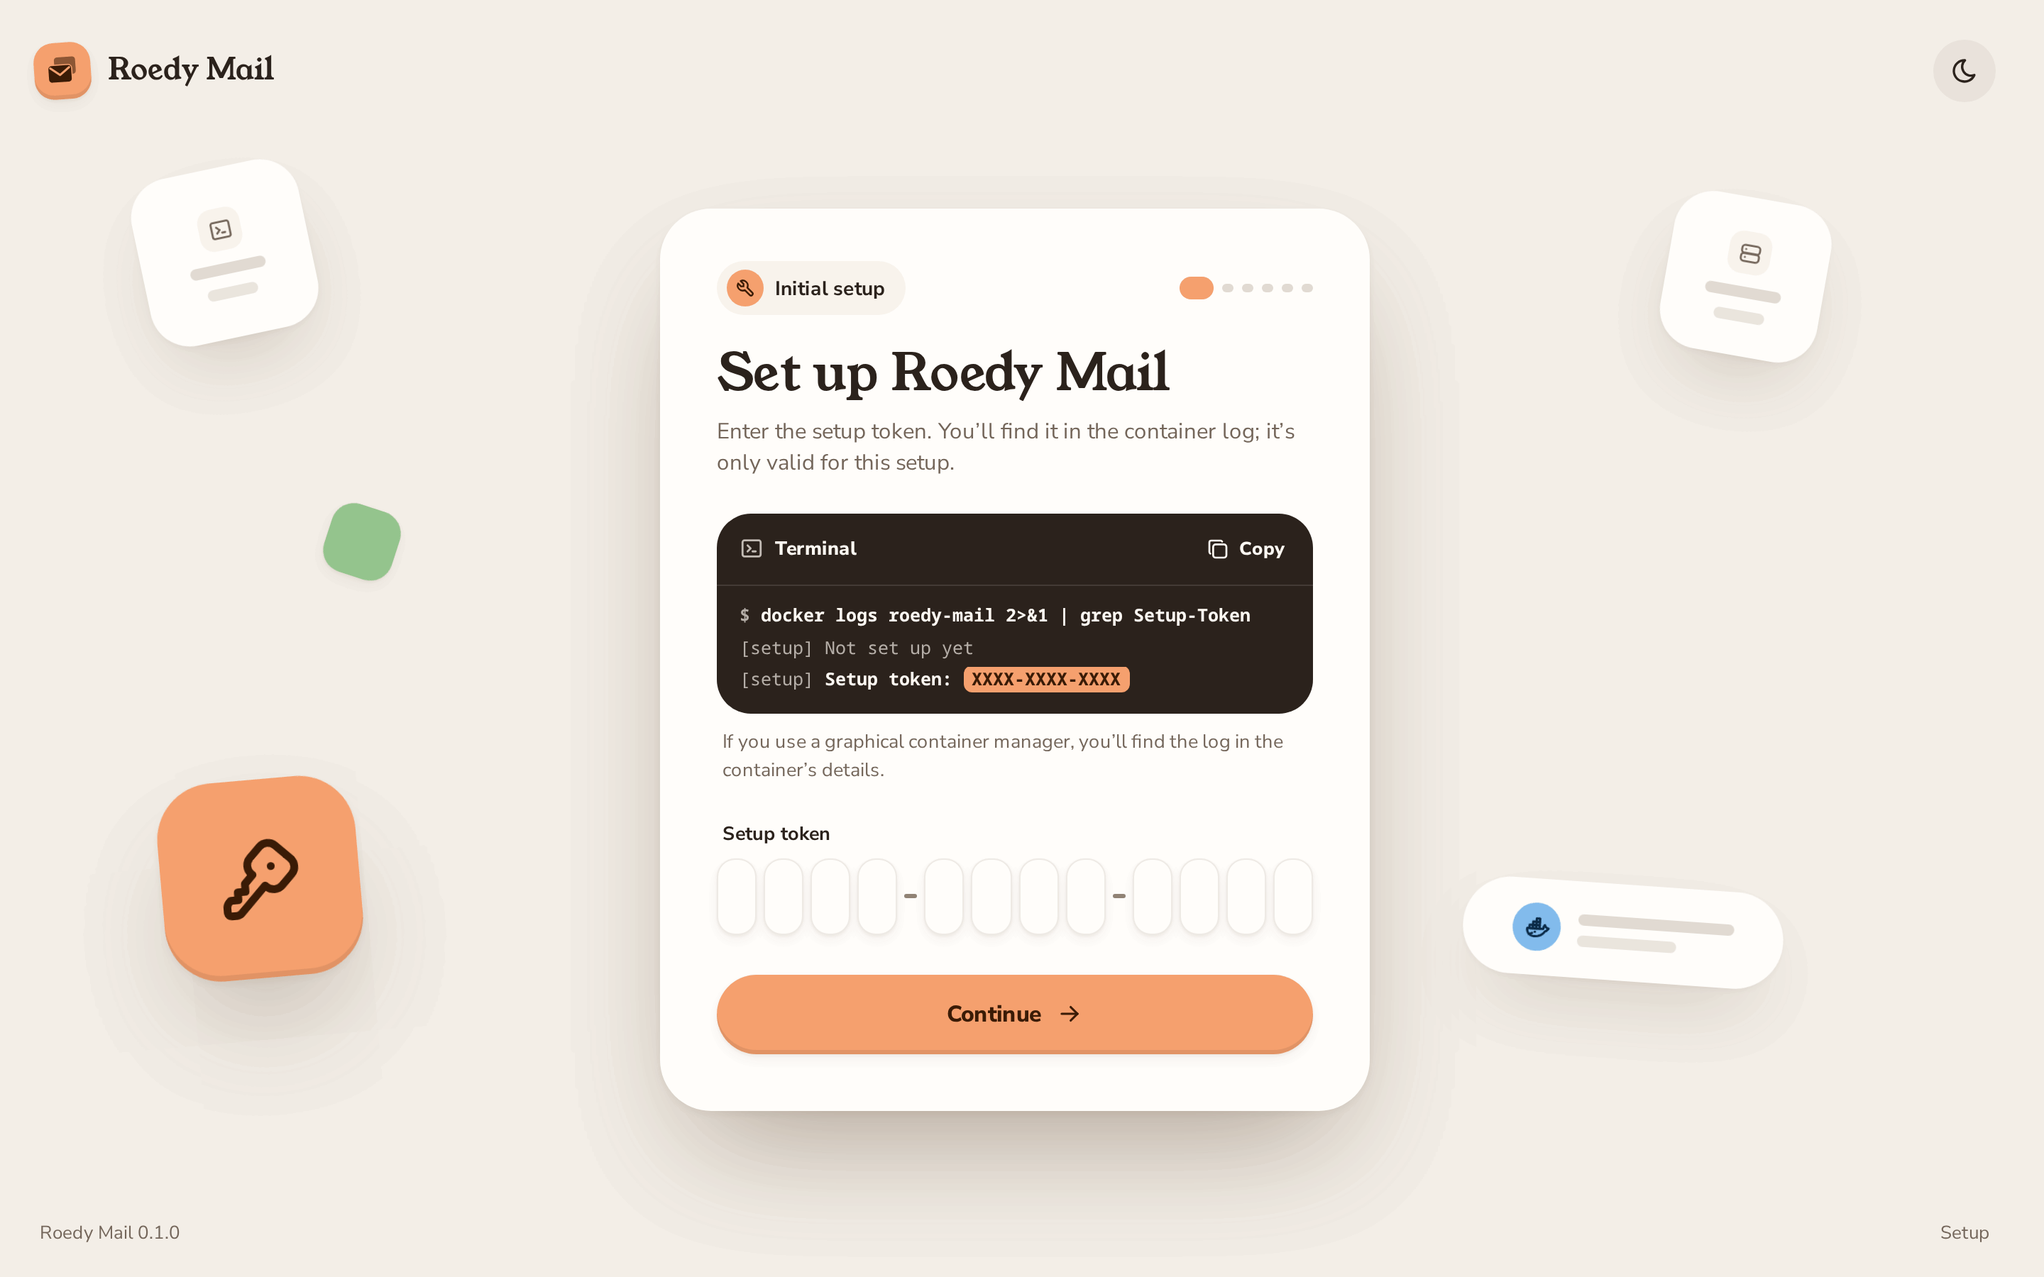
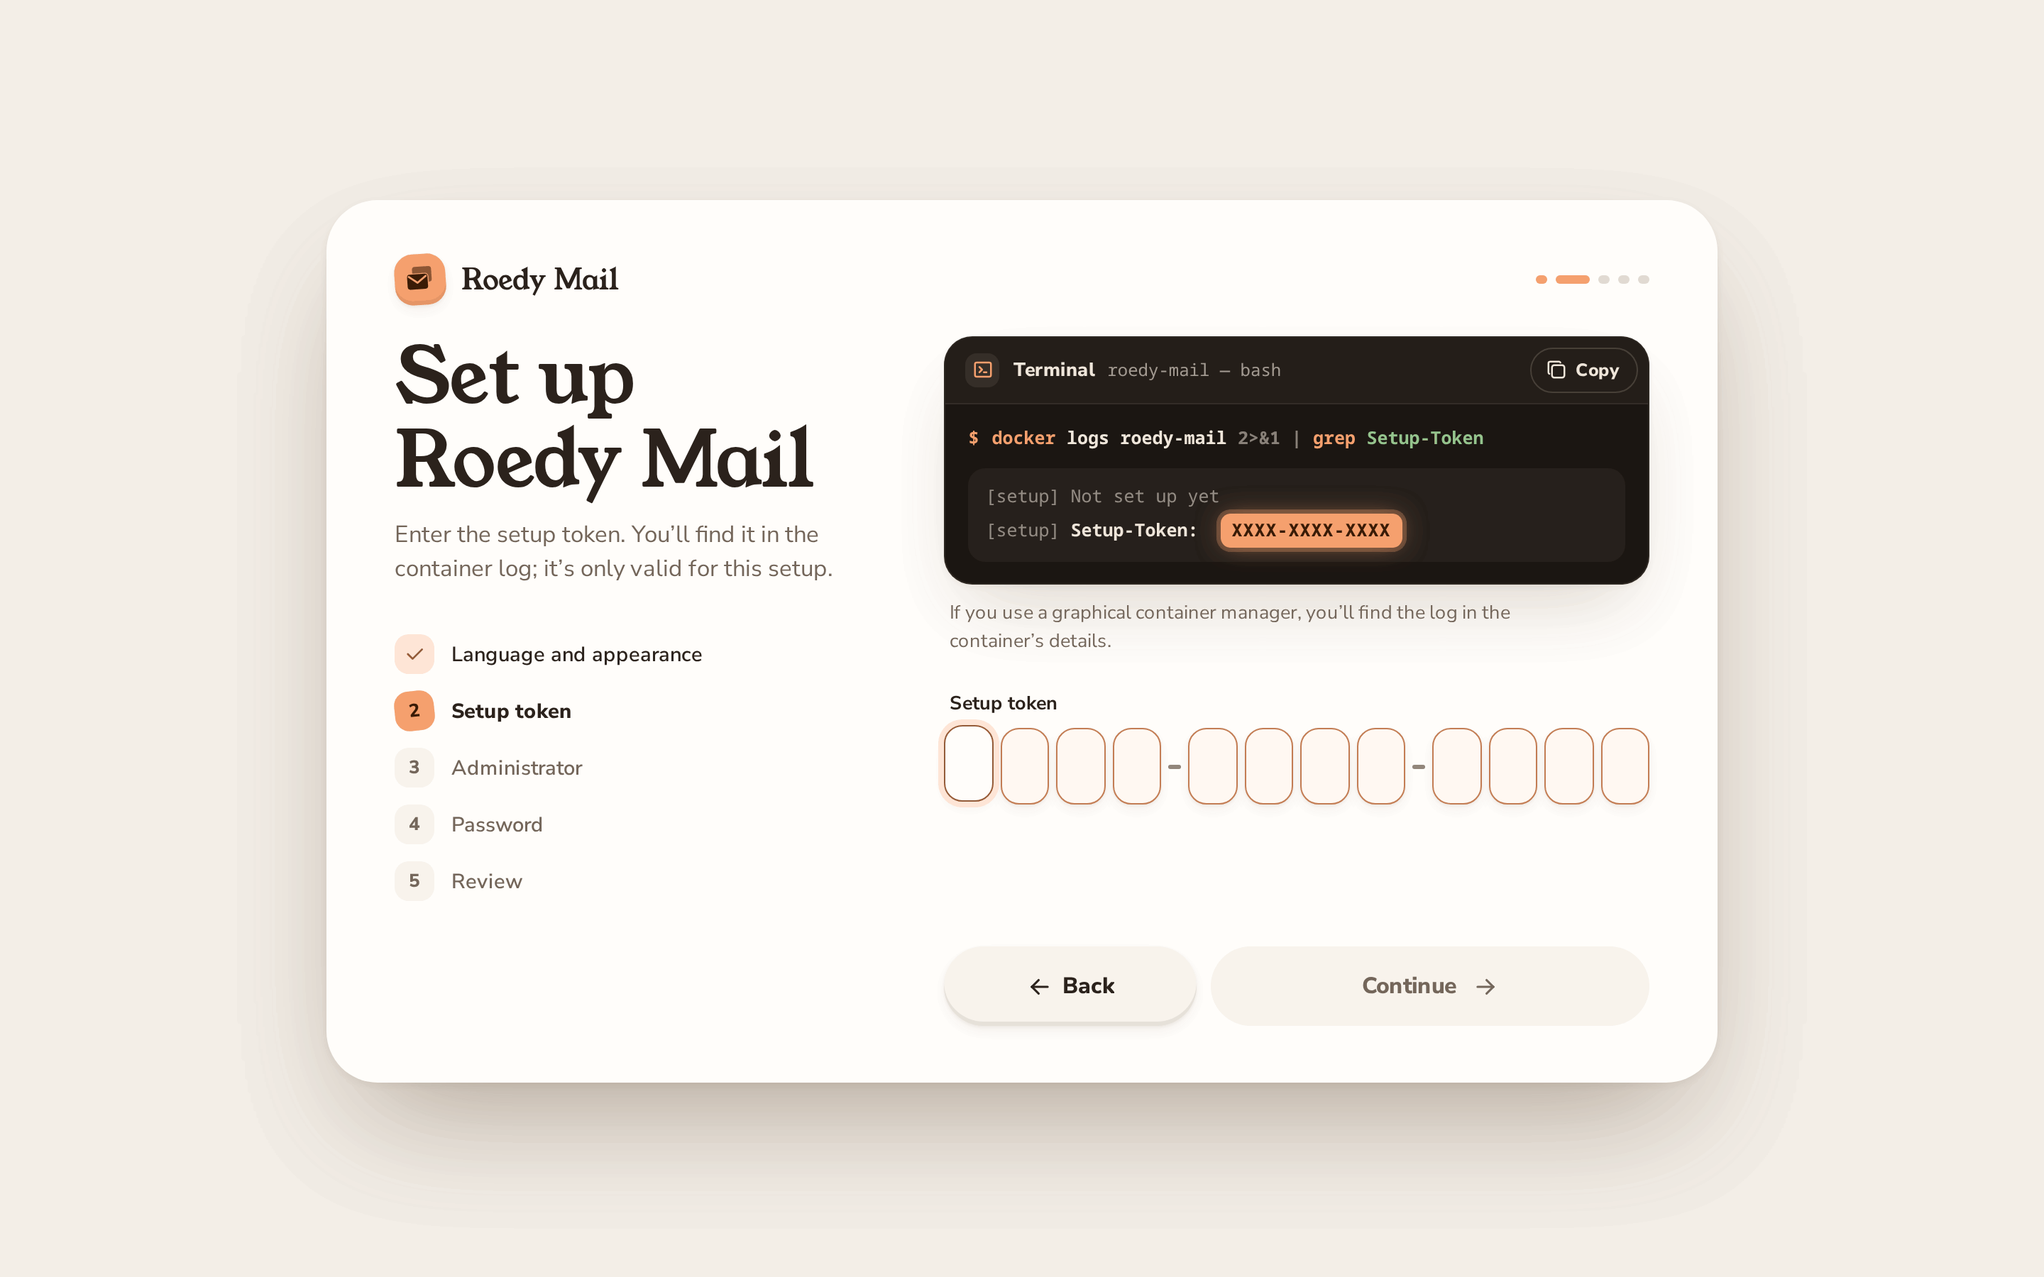
docs(docs): describe the five-step setup wizard (#179)

Changed region(s): [[0.0625, 0.1867, 0.875, 0.9022], [0.0, 0.0311, 0.125, 0.0933], [0.125, 0.2178, 0.1562, 0.2489]]

diff --git a/docs/walkthrough.md b/docs/walkthrough.md
@@ -10,37 +10,43 @@ A guided tour of Roedy Mail: from the first start of the container through every
 
 Roedy Mail needs a Stalwart v1.x server that is reachable over HTTPS, allows requests from the browser (CORS) and accepts an OAuth client for the app. [Preparing Stalwart](setup/stalwart.md) lists the few settings once; the installation with Docker Compose and a reverse proxy is described in [Operations](ops.md#installation).
 
+The app's public address is required: set `ROEDY_PUBLIC_URL` in `.env` (for example `https://mail.example.com`) before the first start; without it, the server does not start. Links in emails and the OAuth redirect URI use this address.
+
 After the first start, the server writes a one-time **setup token** to its log:
 
 ```sh
 docker compose logs roedy-mail | grep Setup-Token
 ```
 
-### 2. Enter the setup token
+### 2. Run the setup wizard
 
-Open the app's address in the browser. As long as there is no administrator, Roedy Mail opens the setup wizard, which asks for the setup token first. The token proves that you operate the server and is only valid until the setup is complete.
+Open the app's address in the browser. As long as there is no administrator, Roedy Mail opens the setup wizard. It has five steps and only creates your administrator account:
 
-![Setup wizard, step 1: the setup token](screenshots/setup-token.png)
+1. **Language and appearance:** language, theme and accent color. They apply at once and become your settings; you can change them later in Settings.
+2. **Setup token:** the token from the log. It proves that you operate the server and is only valid until the setup is complete.
+3. **Administrator:** your name and email address.
+4. **Password:** a password and its confirmation. It has to meet the rules shown below the field before you can continue.
+5. **Review:** everything at a glance, with **Change** per row.
 
-### 3. Create the administrator
+![Setup wizard, step 2: the setup token](screenshots/setup-token.png)
 
-The next two steps create your own account: name and email address, then a password. The password has to meet the rules shown below the field before you can continue.
+**Finish setup** creates the account and revokes the setup token. The done screen welcomes you by your first name, signs you in and opens **Administration › Mail servers**.
 
-### 4. Summary
+![Setup wizard, step 5: the review before finishing](screenshots/setup-review.png)
 
-The last step shows everything at a glance; **Finish setup** signs you in as the administrator.
+### 3. Connect the mail server
 
-![Setup wizard: summary before finishing](screenshots/setup-review.png)
+Under **Administration › Mail servers**, choose **Add server** and enter your Stalwart server with the email domains it serves. Under **OAuth client**, choose **Automatic** and sign in once with an administrator's app password: Roedy Mail registers its OAuth client with Stalwart and does not keep these credentials. **Test connection** checks the JMAP session, the CORS headers and the OAuth client. Details and the manual alternative: [Preparing Stalwart › OAuth client](setup/stalwart.md#oauth-client).
 
-### 5. Connect the mail server and system emails
+![Mail servers with diagnostics](screenshots/mail-servers.png)
 
-Under **Administration › Mail servers**, add your Stalwart server with the email domains it serves. Under **OAuth client**, choose **Automatic** and sign in once with an administrator's app password: Roedy Mail registers its OAuth client with Stalwart and does not keep these credentials. **Test connection** checks the JMAP session, the CORS headers and the OAuth client. Details and the manual alternative: [Preparing Stalwart › OAuth client](setup/stalwart.md#oauth-client).
+### 4. Set up system emails
 
 System emails are optional: with a sender account (ideally with an app password) under **Administration › Email**, Roedy Mail sends invitations, password reset links and notices by email ([Sender account](setup/stalwart.md#sender-account-for-system-emails)).
 
 Afterwards, back up the instance key and check the backup schedule, as listed in [Operations › Initial setup](ops.md#initial-setup).
 
-### 6. Add your mail accounts
+### 5. Add your mail accounts
 
 Roedy Mail itself stores no emails – you connect one or more mail accounts to your app account. Under **Settings › Email accounts**, choose **Add email account** and enter the address: the server is picked automatically from its domain. **Continue to sign-in** opens the sign-in page of your mail server; after signing in (with a second factor, if you use one), you return to Roedy Mail.
 
@@ -50,7 +56,7 @@ Every account can live on a different JMAP server. With more than one account, *
 
 ![Email accounts with "All accounts" as the default](screenshots/mail-accounts.png)
 
-### 7. Sign in
+### 6. Sign in
 
 Everyone else signs in on the sign-in page with their email address or username and password. Its title, text and artwork come from the branding settings. Forgotten passwords can be reset by email once system emails are set up.
 
@@ -138,9 +144,7 @@ Administrators reach the administration area with the shield icon in the header.
 
 ### Mail servers
 
-Only servers on this list can be used for mail accounts; the list also feeds the app's Content Security Policy. Each entry shows its domains and the result of the last **Test connection**, with **Show diagnostics** for details. **Add server** registers the OAuth client automatically, as in the setup. Troubleshooting the diagnostics: [Preparing Stalwart › Diagnostic reasons](setup/stalwart.md#diagnostic-reasons).
-
-![Mail servers with diagnostics](screenshots/mail-servers.png)
+Only servers on this list can be used for mail accounts; the list also feeds the app's Content Security Policy. Each entry shows its domains and the result of the last **Test connection**, with **Show diagnostics** for details. **Add server** registers the OAuth client automatically, as described in [Connect the mail server](#3-connect-the-mail-server). Troubleshooting the diagnostics: [Preparing Stalwart › Diagnostic reasons](setup/stalwart.md#diagnostic-reasons).
 
 ### Branding, organization and banner
 

diff --git a/docs/ops.md b/docs/ops.md
@@ -137,7 +137,7 @@ All settings come from environment variables, with Compose from the `.env` file 
 |---|---|---|
 | `ROEDY_LISTEN` | `0.0.0.0:8080` | Address and port of the HTTP server. The reverse proxy handles TLS. |
 | `ROEDY_DATA_DIR` | `data` relative to the working directory (in the image `/data`) | [Data directory](#data-directory) with the database `roedy.sqlite3`. Must be on a local file system (SQLite in WAL mode). |
-| `ROEDY_PUBLIC_URL` | – | **Required.** Public address, e.g. `https://mail.example.com` (without credentials, query or fragment). Without it, `serve` exits with an error, unless the setup of an older version stored an address. |
+| `ROEDY_PUBLIC_URL` | – | **Required.** Public address, e.g. `https://mail.example.com` (without credentials, query or fragment). Without it, `serve` exits with `error: ROEDY_PUBLIC_URL is not set – …`, unless the setup of an older version stored an address. The setup does not ask for it. |
 | `ROEDY_LOG` | `info` | Log filter in the format of [`EnvFilter`](https://docs.rs/tracing-subscriber/latest/tracing_subscriber/filter/struct.EnvFilter.html), e.g. `warn` or `info,roedy_mail_server=debug`. The setup token always appears. |
 | `ROEDY_LOG_FORMAT` | `json` | `json` (one line per event) or `text`. Logs go to stderr. |
 | `ROEDY_WEB_DIR` | – | Directory with the web app build (e.g. `apps/web/build`). Takes precedence over the embedded web app; for development. |
@@ -152,7 +152,7 @@ All settings come from environment variables, with Compose from the `.env` file 
 
 ## Initial setup
 
-As long as no administrator exists, the app redirects to the setup (`/setup`), and the server writes the **setup token** to the log on every start, regardless of `ROEDY_LOG`. The setup asks for it in the first step:
+As long as no administrator exists, the app redirects to the setup (`/setup`), and the server writes the **setup token** to the log on every start, regardless of `ROEDY_LOG`. The setup asks for it in the second step:
 
 ```sh
 docker logs roedy-mail 2>&1 | grep Setup-Token
@@ -161,15 +161,25 @@ docker exec roedy-mail roedy-mail setup-token   # alternatively
 
 The token is valid until the setup is completed; afterwards `roedy-mail setup-token` reports `error: Setup is complete; there is no setup token anymore.` (exit code 1). After five wrong entries, input from that address is blocked for 30 seconds.
 
-The setup creates the administrator: setup token, name and email address, password and a summary. Afterwards the administrator is signed in and adds the mail server ([`stalwart.md`](setup/stalwart.md#oauth-client)) under Administration › Mail servers and the system emails ([sender account](setup/stalwart.md#sender-account-for-system-emails)) under Administration › Email.
+The setup only creates the administrator, in five steps:
+
+1. **Language and appearance:** language (System, English, German), theme (System, Light, Dark) and accent color (five colors or your own under "More"). They apply to the wizard at once and become the administrator's settings; nothing is sent to the server yet.
+2. **Setup token:** the token from the log.
+3. **Administrator:** name and email address.
+4. **Password:** password and confirmation; "Continue" is available once the rules below the field are met.
+5. **Review** ("All set?"): a summary with "Change" per row; "Finish setup" creates the administrator and revokes the setup token.
+
+The setup runs in this browser tab: language, appearance, name and email address stay in the tab's session storage, the token and the password only in memory. After a reload on steps 3 to 5 the wizard returns to the setup token with the other details kept. Then it signs the administrator in and opens Administration › Mail servers. The public address is not part of the setup; it comes from [`ROEDY_PUBLIC_URL`](#configuration).
 
 Next:
 
-1. Back up the [instance key](#instance-key).
-2. Set up an authenticator app under Account › Security.
-3. Under Administration › Maintenance, check the schedule of the [backups](#backup-and-restore) (daily by default, 30 days).
-4. Invite more people under Administration › Users: with system emails by email, without them via "Copy link".
-5. Optionally adjust the [update check](#updates) under Administration › Updates.
+1. Add the mail server under Administration › Mail servers, with the OAuth client ([`stalwart.md`](setup/stalwart.md#oauth-client)); "Test connection" checks it.
+2. Set up the system emails under Administration › Email with a [sender account](setup/stalwart.md#sender-account-for-system-emails) (optional; invitations, password reset and notifications by email need it).
+3. Back up the [instance key](#instance-key).
+4. Set up an authenticator app under Account › Security.
+5. Under Administration › Maintenance, check the schedule of the [backups](#backup-and-restore) (daily by default, 30 days).
+6. Invite more people under Administration › Users: with system emails by email, without them via "Copy link".
+7. Optionally adjust the [update check](#updates) under Administration › Updates.
 
 ## Data directory
 

diff --git a/README.md b/README.md
@@ -80,12 +80,12 @@ Roedy Mail does not proxy your mail. The backend manages app accounts, settings 
 curl -fsSLO https://raw.githubusercontent.com/roedylabs/mail/main/deploy/compose.yml
 curl -fsSL -o .env https://raw.githubusercontent.com/roedylabs/mail/main/deploy/.env.example
 chmod 600 .env
-${EDITOR:-vi} .env                                # public URL, image version
+${EDITOR:-vi} .env                                # ROEDY_PUBLIC_URL (required), image version
 docker compose up -d                              # listens on 127.0.0.1:8080
 docker compose logs roedy-mail | grep Setup-Token
 ```
 
-Put a reverse proxy with TLS in front of it (for example Caddy, Traefik or nginx), open the URL and follow the setup wizard with the setup token from the log. The image `ghcr.io/roedylabs/mail` is available for `linux/amd64` and `linux/arm64`, runs as an unprivileged user on `scratch`, and is signed with [cosign](https://docs.sigstore.dev/). Static binaries are attached to every [release](https://github.com/roedylabs/mail/releases).
+Without `ROEDY_PUBLIC_URL` (the public address, such as `https://mail.example.com`) the server does not start. Put a reverse proxy with TLS in front of it (for example Caddy, Traefik or nginx), open the URL and follow the setup wizard with the setup token from the log; afterwards add the mail server under Administration › Mail servers. The image `ghcr.io/roedylabs/mail` is available for `linux/amd64` and `linux/arm64`, runs as an unprivileged user on `scratch`, and is signed with [cosign](https://docs.sigstore.dev/). Static binaries are attached to every [release](https://github.com/roedylabs/mail/releases).
 
 ## Documentation
 

diff --git a/docs/setup/stalwart.md b/docs/setup/stalwart.md
@@ -57,7 +57,7 @@ If you want to allow only the app's address instead of `*`, you can also set the
 
 Users sign in in the browser with Stalwart's OAuth flow (code with PKCE); afterwards Stalwart from v1.0.1 asks once for consent. From v1.1.0 Stalwart's sign-in page also offers passkeys ("Sign in with a passkey"); for Roedy Mail this changes nothing, because the sign-in runs entirely on Stalwart's side. A passkey replaces password and second factor there (Stalwart then does not ask for TOTP); its relying party ID is the host of Stalwart's public URL. For this every server needs an OAuth client with
 
-- **redirect URI** `<app address>/oauth/callback`, e.g. `https://app.example.com/oauth/callback` (Administration › Mail servers shows it for copying),
+- **redirect URI** `<app address>/oauth/callback`, e.g. `https://app.example.com/oauth/callback`, where the app address is `ROEDY_PUBLIC_URL` (required, [Operations › Configuration](../ops.md#configuration); Administration › Mail servers shows the URI for copying),
 - the scopes `offline_access urn:ietf:params:oauth:scope:mail urn:ietf:params:oauth:scope:contacts` (that is what they are called in Stalwart; Stalwart does not know `mail` alone). Stalwart v1 enforces them: a token only sees what its scope allows; Roedy Mail needs contacts for the recipient suggestions.
 
 A newly registered client (new client ID) only applies to new sign-ins: Stalwart v1 binds every sign-in to its client, so all connected mail accounts require a new sign-in afterwards ("Sign in again"). If the app's address changes, register the client again – it only applies to its redirect URI.

diff --git a/docs/setup/app.md b/docs/setup/app.md
@@ -7,7 +7,7 @@ The web app runs in the browser or as an installed app (progressive web app) fro
 ## Requirements
 
 - **HTTPS:** Service worker, installation and push only exist in a secure context, i.e. via HTTPS or `http://localhost`. Signing in needs it anyway, because the session cookie is `Secure` ([Operations › Configuration](../ops.md#configuration)).
-- **Own origin:** The app needs the root `/` of its origin (`start_url` and `scope` are `/`). It does not support a sub-path; it does not run there at all.
+- **Own origin:** The app needs the root `/` of its origin (`start_url` and `scope` are `/`). It does not support a sub-path; it does not run there at all. `ROEDY_PUBLIC_URL`, which the server requires, is this origin ([Operations › Configuration](../ops.md#configuration)).
 - **Reverse proxy:** `/manifest.webmanifest`, `/service-worker.js`, `/branding/…` and `/_app/…` must reach the backend unchanged. The backend sets the cache headers itself: files under `/_app/immutable/` one year (`immutable`), everything else `no-cache` with ETag. A proxy must not cache `/`, `/service-worker.js` and the manifest longer, otherwise new versions and a changed branding arrive late.
 - **Production build only:** The service worker only caches in the built app (image or `ROEDY_WEB_DIR`). In the Vite dev server the cache stays off.
 

diff --git a/docs/setup/notifications.md b/docs/setup/notifications.md
@@ -25,7 +25,7 @@ Roedy Mail reports events of the app account in three ways; new emails come sepa
 ## Requirements
 
 - **HTTPS:** Signing in needs it anyway ([Operations › Configuration](../ops.md#configuration)). Service worker and push are likewise only available in the browser in a secure context (HTTPS or `localhost`).
-- **Public address** (`ROEDY_PUBLIC_URL`): the emails link into the app; without an address, due notification emails are dropped. Push names it to the push services as the contact (`sub` in the VAPID token).
+- **Public address** (`ROEDY_PUBLIC_URL`, required for the server to start, [Operations › Configuration](../ops.md#configuration)): the emails link into the app. Push names it to the push services as the contact (`sub` in the VAPID token).
 - **System emails** for the Email channel: a sender account as in [Stalwart › Sender account for system emails](stalwart.md#sender-account-for-system-emails). Without system emails, due entries are dropped; entries not yet due wait.
 - **Outgoing HTTPS (port 443) to the push services:** Every browser registers an endpoint with its push service; the server sends to it. Typical are (without guarantee of completeness; what counts is the endpoint the browser reports):
 

diff --git a/docs/setup/administration.md b/docs/setup/administration.md
@@ -41,7 +41,7 @@ Invitations, confirmation links, security notices and notifications go out throu
 
 **Limits:** Test emails are limited per administrator to ten at once, then one per minute; only what actually goes out after a successful check counts. After five rejected sign-ins at one server within 15 minutes, Roedy Mail stops trying there for 15 minutes ([Stalwart › Sender account](stalwart.md#sender-account-for-system-emails)).
 
-**Requirement:** System emails need the public address (`ROEDY_PUBLIC_URL`) for their links. It is changed via `ROEDY_PUBLIC_URL`; there is no field for it under Administration.
+**Public address:** The links in system emails use the public address from `ROEDY_PUBLIC_URL`, which the server requires to start ([Operations › Configuration](../ops.md#configuration)). It is changed only there; neither the setup nor Administration has a field for it.
 
 App password and token are stored in the database encrypted with the instance key and appear in no response, no log and no audit log entry.
 
